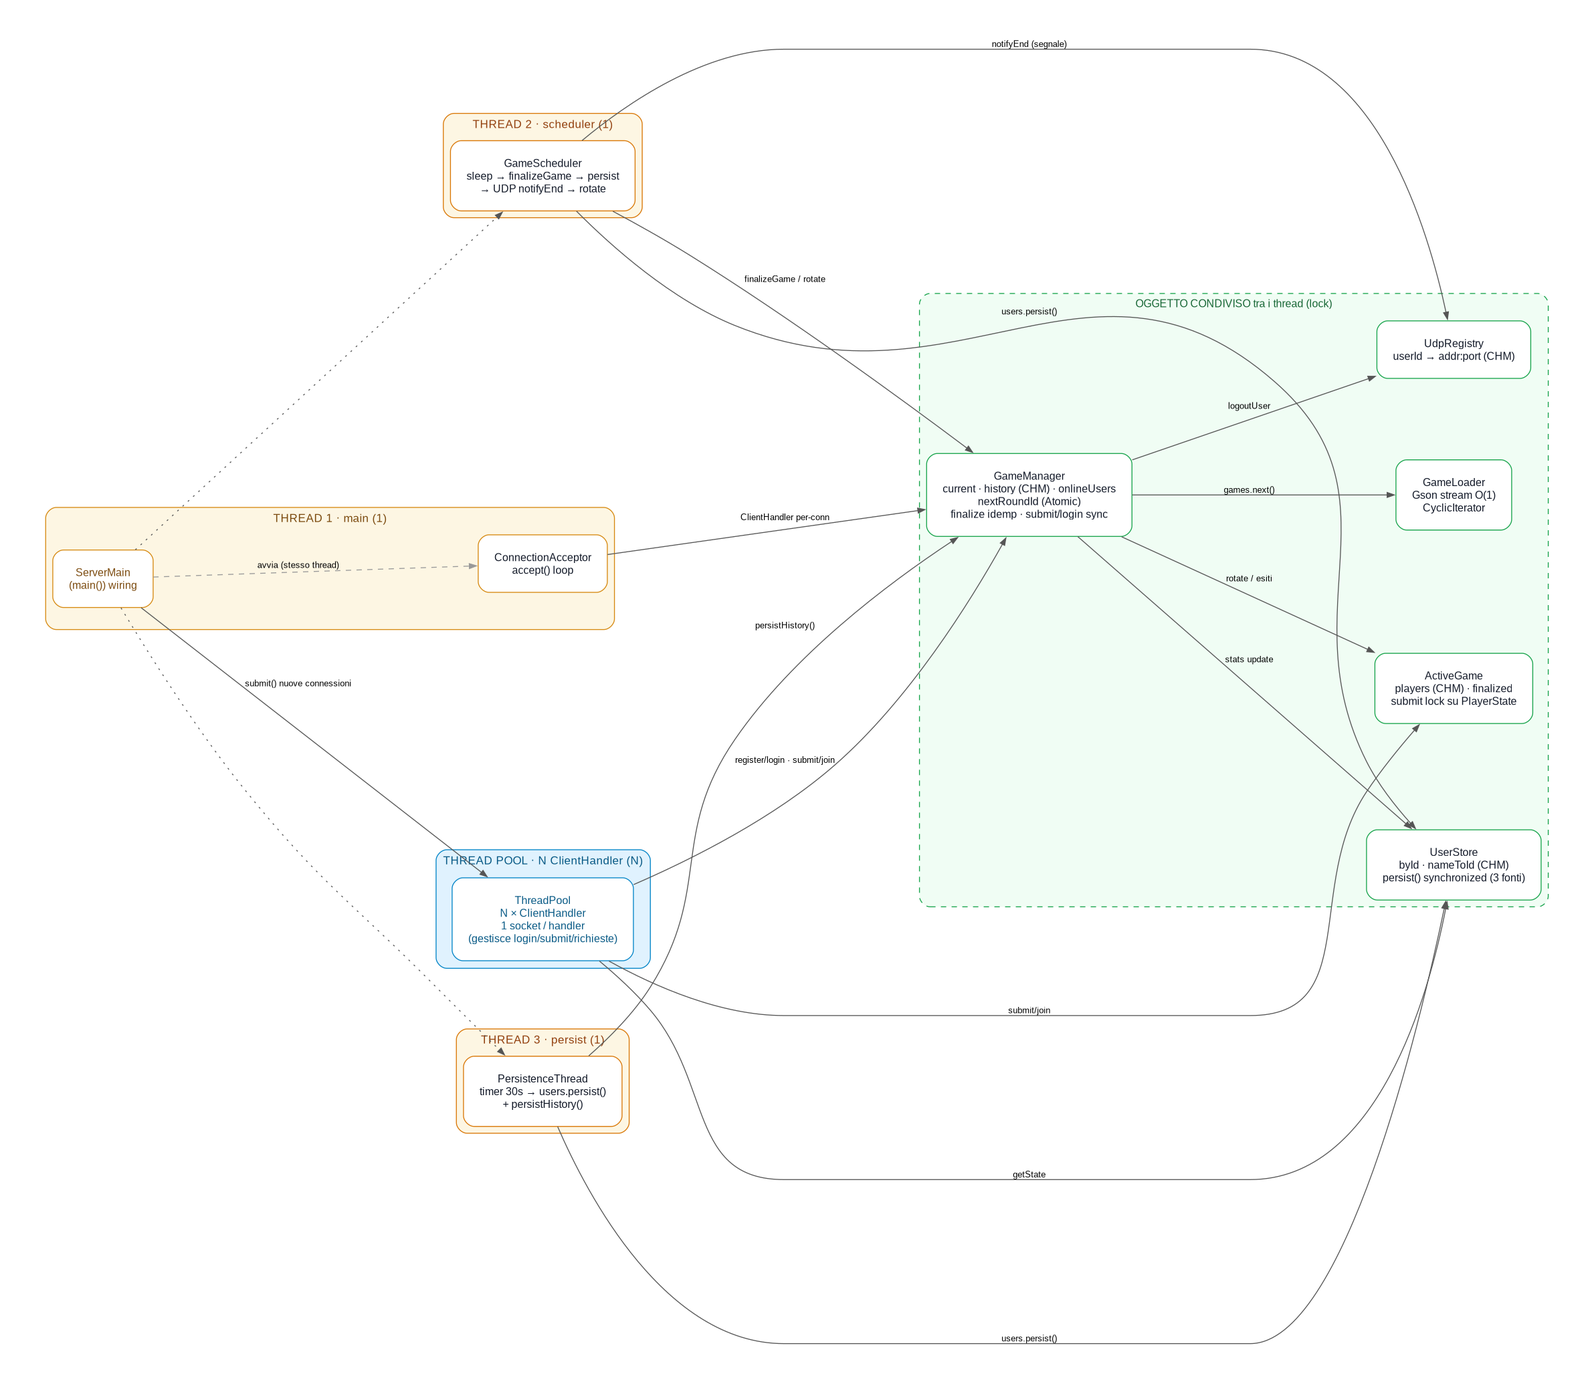
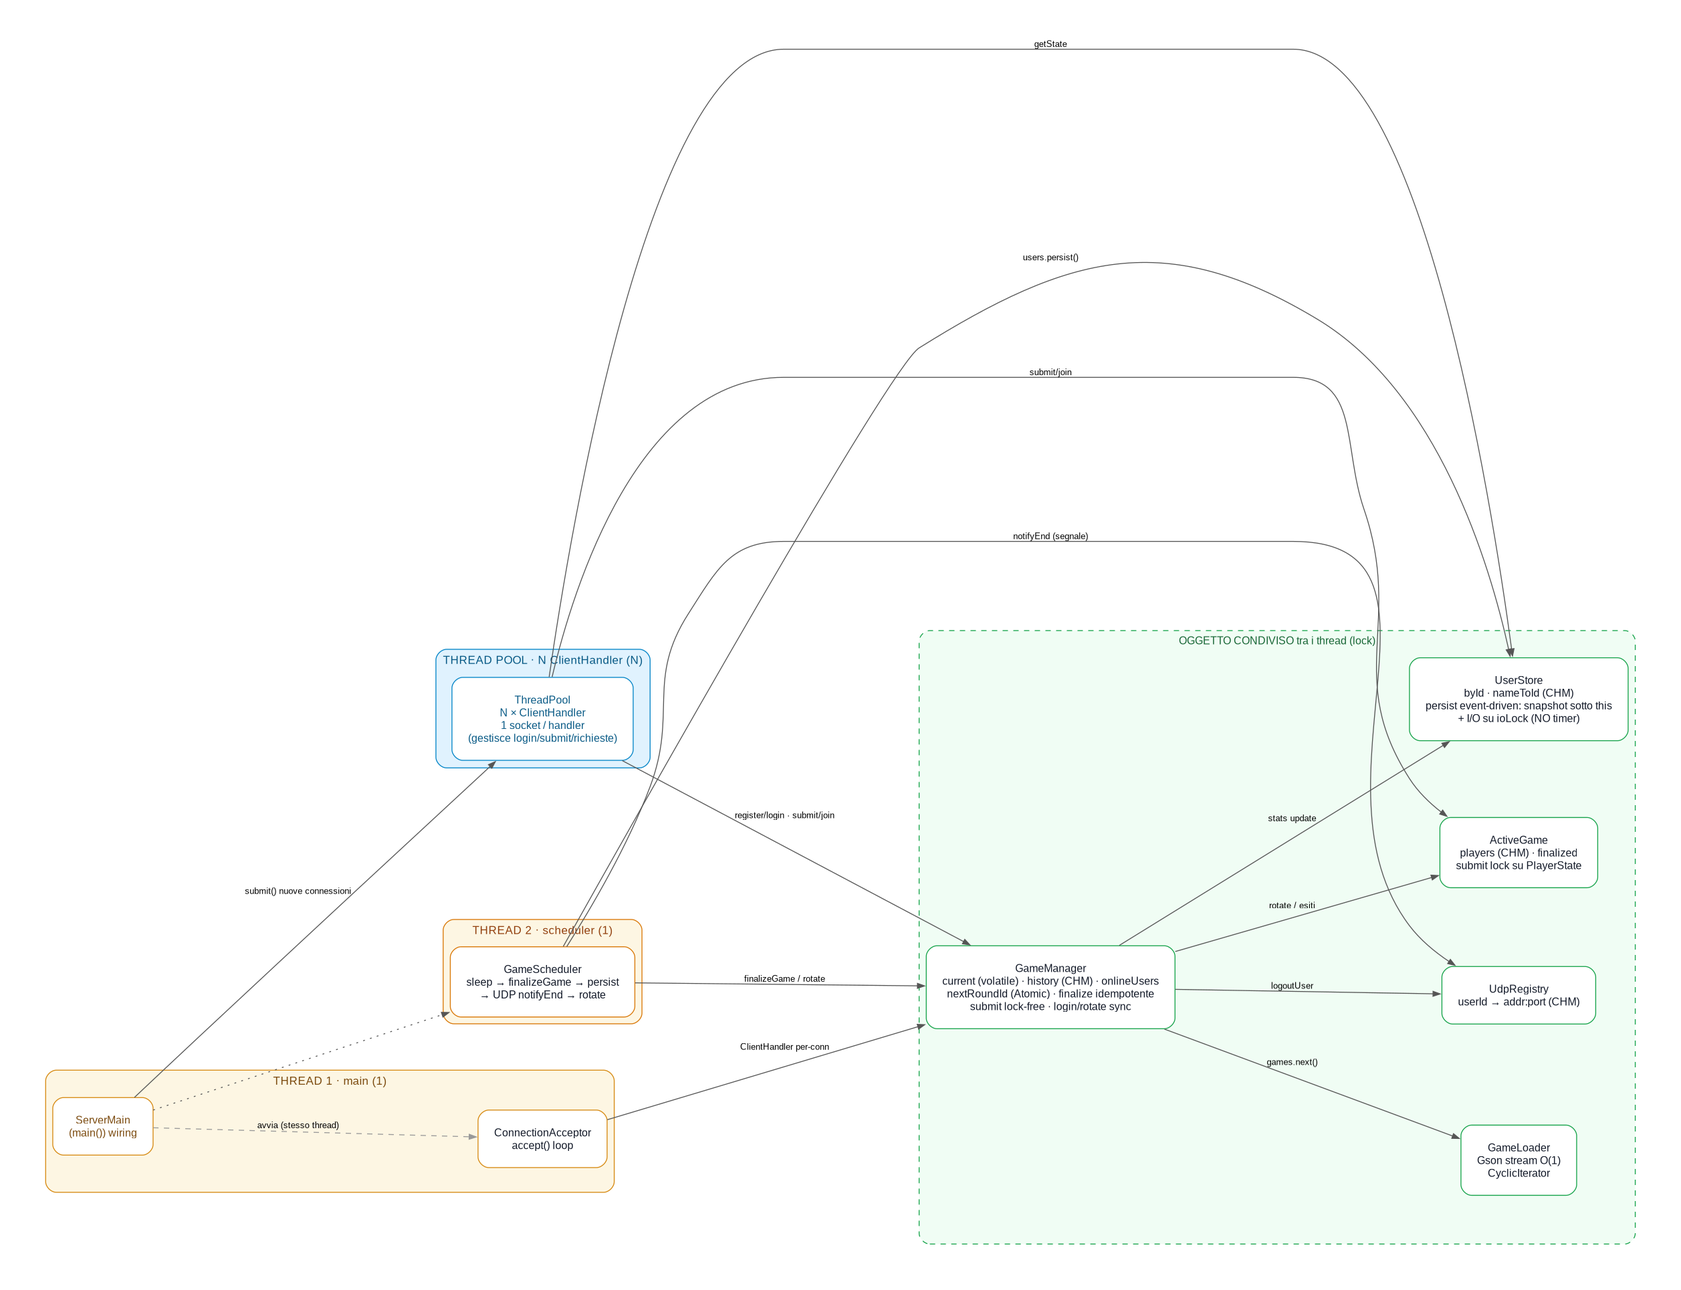
eliminazione persistence-thread
superfluo, overhead inutile

diff --git a/src/server/core/UserStore.java b/src/server/core/UserStore.java
@@ -45,17 +45,17 @@ import protocol.Errors;
  *   - `nextId` è un AtomicInteger (assegnazione id thread-safe);
  *
  * PERSISTENZA
- * Utenti in RAM ("pochi", accessi frequenti); snapshot JSON periodico +
- * atomico (temp + rename).
+ * Utenti in RAM ("pochi", accessi frequenti); snapshot JSON atomico (temp + rename).
  *
- * `persist()` è `synchronized`: viene chiamato da TRE fonti concorrenti e
- * serializza la scrittura su file.tmp + ATOMIC_MOVE, evitando collisioni:
- *   1) PersistenceThread (timer periodico);
- *   2) GameScheduler, subito dopo finalizeGame (persistenza event-driven);
- *   3) shutdown hook in ServerMain (SIGTERM/SIGINT) -> nessuna perdita
- *      dell'ultima partita finalizzata all'uscita.
- * In questo modo si cerca di minimizzare la perdita di informazioni 
- * su chiusure inaspettate o crash.
+ * PERSISTENZA EVENT-DRIVEN (nessun timer): il salvataggio avviene
+ *   1) register / updateCredentials (deltas account, su disco SUBITO dopo il successo);
+ *   2) GameScheduler dopo finalizeGame (stats maturate a fine partita);
+ *   3) shutdown hook in ServerMain (SIGTERM/SIGINT) -> nessuna perdita dell'ultima
+ *      partita finalizzata all'uscita.
+ * Il disk I/O va su `ioLock` dedicato, cosi' register/login non si bloccano sulla
+ * scrittura; le sorgenti concorrenti si serializzano comunque tra loro via `ioLock`.
+ * In questo modo si minimizza la perdita di informazioni su chiusure inaspettate/
+ * crash: i deltas account vengono salvati appena avvengono, non dopo fino a 30s.
  */
 public class UserStore {
 
@@ -107,6 +107,7 @@ public class UserStore {
             nameToId.put(username, u.id);
             byId.put(u.id, u);
         }
+        persistQuiet();
         return null;
     }
 
@@ -151,6 +152,7 @@ public class UserStore {
                 }
             }
         }
+        persistQuiet();
         return null; // OK
     }
 
@@ -224,6 +226,16 @@ public class UserStore {
                 GSON.toJson(arr, w);
             }
             Files.move(tmp, p, StandardCopyOption.REPLACE_EXISTING, StandardCopyOption.ATOMIC_MOVE);
+        }
+    }
+
+    // Persist event-driven SILENZIOSO (chiamato da register/updateCredentials):
+    // l'IOException non deve diventare un codice Errors per il client, quindi la
+    // si logga e si prosegue (il shutdown hook / persist seguente recupererà).
+    private void persistQuiet() {
+        try { persist(); }
+        catch (IOException e) {
+            System.err.println("[UserStore] persist failed: " + e.getMessage());
         }
     }
 

diff --git a/src/server/core/ServerMain.java b/src/server/core/ServerMain.java
@@ -3,7 +3,6 @@ package server.core;
 import server.loader.GameLoader;
 import server.network.ConnectionAcceptor;
 import server.network.GameScheduler;
-import server.persistence.PersistenceThread;
 
 import java.io.IOException;
 import java.util.concurrent.ExecutorService;
@@ -16,7 +15,7 @@ import java.util.concurrent.Executors;
  *   1. legge la config (server.properties o path passato come argomento);
  *   2. crea il GameLoader (streaming Gson, memoria O(1): nessuna partita in RAM);
  *   3. costruisce il Context (risorse condivise);
- *   4. avvia scheduler partita e thread di persistenza;
+ *   4. avvia lo scheduler partita (la persistenza è EVENT-DRIVEN);
  *   5. registra lo shutdown hook (su SIGTERM/SIGINT salva UserStore su disco);
  *   6. apre l'acceptor TCP sul thread principale (bloccante).
  */
@@ -49,9 +48,8 @@ public class ServerMain {
         // 3) risorse condivise
         Context ctx = new Context(cfg, loader);
 
-        // 4) thread di supporto
+        // 4) scheduler partita (persistenza utenti event-driven)
         new Thread(new GameScheduler(ctx.games, ctx.users, ctx.notifier), "scheduler").start();
-        new Thread(new PersistenceThread(ctx.users, cfg.persistIntervalSec), "persist").start();
 
         // 5) shutdown hook: SIGTERM/SIGINT -> persist prima di uscire (no perdita ultima partita)
         Runtime.getRuntime().addShutdownHook(new Thread(() -> {

diff --git a/src/server/core/ServerConfig.java b/src/server/core/ServerConfig.java
@@ -11,7 +11,6 @@ public class ServerConfig {
     public final int udpPort;
     public final int gameDurationSec;
     public final int poolSize;
-    public final int persistIntervalSec;
     public final String gamesFile;
     public final String persistFile;
     public final String historyFile;
@@ -21,7 +20,6 @@ public class ServerConfig {
         udpPort = Integer.parseInt(p.getProperty("udp.port", "12346"));
         gameDurationSec = Integer.parseInt(p.getProperty("game.duration.sec", "600"));
         poolSize = Integer.parseInt(p.getProperty("pool.size", "16"));
-        persistIntervalSec = Integer.parseInt(p.getProperty("persist.interval.sec", "30"));
         gamesFile = p.getProperty("games.file", "data/games.json");
         persistFile = p.getProperty("persist.file", "data/users.json");
         historyFile = p.getProperty("history.file", "data/history.json");

diff --git a/docs/explain/server/core/UserStore.md b/docs/explain/server/core/UserStore.md
@@ -20,21 +20,26 @@ Won/Lost`, `notFinished`, `currentStreak`/`maxStreak`, `perfectPuzzles`,
 
 ## Operazioni
 - `register(username, psw)` — `synchronized(this)`: verifica username, assegna
-  `nextId`, popola `nameToId`+`byId`. `null`=OK, altrimenti `Errors`.
+  `nextId`, popola `nameToId`+`byId`. Poi **`persistQuiet()`** (persist
+  event-driven, fuori dal lock). `null`=OK, altrimenti `Errors`.
 - `login(username, psw)` — lookup sotto `synchronized(this)`, confronto psw sotto
   `synchronized(u)`. `null`=OK.
 - `updateCredentials(oldUser, oldPsw, newUser, newPsw)` — `synchronized(this)` +
   `synchronized(u)`: rinomina solo l'indice secondario (`nameToId`), `byId` e le
-  strutture keyed-by-id restano invariate. `null`=OK.
+  strutture keyed-by-id restano invariate. Poi **`persistQuiet()`** (persist
+  event-driven, fuori dal lock). `null`=OK.
 - `allUsers()` — lista snapshot per classifica.
 - `hasUser(name)`, `getByName(name)` (atomica sotto `this`), `getById(id)`
   (lookup diretto, l'id non cambia MAI).
-- `persist()` — **NON `synchronized`**: build del JSON in-memory sotto `this`
-  (cattura `int`/`mistakeHist` sotto `synchronized(u)`, accoppiata col writer in
-  `finalizeGame`), **disk I/O su `ioLock`** dedicato. Le tre fonti concorrenti
-  (timer/scheduler/shutdown) si serializzano tra loro tramite `ioLock`, ma
-  `register`/`login` (che usano `synchronized(this)`) non si bloccano sulla
-  scrittura su disco. Scrittura atomica (tmp + `ATOMIC_MOVE`).
+- `persist()` — build del JSON in-memory sotto `this` (cattura `int`/`mistakeHist`
+  sotto `synchronized(u)`, accoppiata col writer in `finalizeGame`), **disk I/O
+  su `ioLock`** dedicato. Le fonti concorrenti (register/rename, scheduler
+  post-finalize, shutdown) si serializzano tra loro tramite `ioLock`; il lock
+  `this` resta libero durante la scrittura su disco. Scrittura atomica
+  (tmp + `ATOMIC_MOVE`).
+- `persistQuiet()` — wrapper di `persist()` che logga l'`IOException` (chiamato
+  da `register`/`updateCredentials`): un fallimento di scrittura non diventa un
+  codice `Errors` per il client; lo recupera lo shutdown hook / persist seguente.
 - `load()` — all'avvio (single-threaded): ripristina `byId`/`nameToId`/`nextId`;
   su file corrotto rinomina in `.corrupt` e parte vuoto.
 
@@ -44,15 +49,22 @@ Nessun lock globale per le operazioni business: `byId`/`nameToId` sono
 `synchronized(u)` → utenti diversi non si bloccano. `register`/`login`/
 `updateCredentials`/`getByName` serializzano il SOLO accesso combinato alle due
 mappe con `synchronized(this)` (breve). `persist` separa snapshot in-memory
-(`this`) dall'I/O (`ioLock`). Solo `synchronized`/`Atomic*`/`ConcurrentHashMap`.
+(`this`) dall'I/O (`ioLock`); `persistQuiet` la invoca fuori dal lock `this`
+(register/rename persistono senza tenere bloccato lo store durante la scrittura).
+Solo `synchronized`/`Atomic*`/`ConcurrentHashMap`.
 
 ## Persistenza
-Snapshot JSON periodico (PersistenceThread) + event-driven (GameScheduler
-post-finalize) + shutdown hook (ServerMain). L'I/O è fuori dal monitor `this`.
+**Event-driven, nessun timer** (il vecchio `PersistenceThread` è stato rimosso):
+- `register` / `updateCredentials` → `persistQuiet()` subito dopo il successo
+  (deltas account: perdita a hard-crash = 0, prima era ≤30s);
+- `GameScheduler` post-finalize → stats/storico;
+- shutdown hook (`ServerMain`) → ultima partita finalizzata.
+L'I/O è fuori dal monitor `this` (su `ioLock`).
 
 ## Collegamenti
 - `protocol/Errors`: codici di ritorno (enum centralizzato, `null`=OK).
 - `core/GameManager`: statistiche in `finalizeGame`, storico per userId,
   `leaderboard`/`playerStats`.
 - `network/ClientHandler`: `register`/`login`/`updateCredentials`/`getById`.
-- `persistence/PersistenceThread` + `core/ServerMain`: persistenza periodica/shutdown.
+- `core/ServerMain`: shutdown hook (`persist`) + avvio scheduler.
+- `network/GameScheduler`: `persist` post-finalize (stats).

diff --git a/hermes_brain/gotchas.md b/hermes_brain/gotchas.md
@@ -42,7 +42,7 @@
   - `handleProposal` in `ClientHandler` rimosso il `synchronized(ctx.games)` (era double-lock ridondante).
   - `finalizeGame` rilegge `PlayerState` sotto **`synchronized(ps)`** esplicito — prima era protetto solo dall'implicito monitor grosso; senza, le letture di `correctCount/errors/score` in finalizzazione gappano contro submit concorrenti. No deadlock (finalize prende GM→ps; submit solo ps).
   - `persistHistory` / `UserStore.persist`: **NON più `synchronized` sul monitor business**; build in-memory sotto `this`, **disk I/O su `ioLock`** dedicato (serializza le fonti senza bloccare register/login/submit durante la scrittura). `persistHistory` usa **`Gson.toJson(map, w)` streamed** → niente `String`/`JsonElement` intermedia dell'intero storico (memoria extra O(1)).
-  - `PersistenceThread`: NON salva più lo storico (cambia solo a fine partita; lo salvano scheduler post-finalize + shutdown hook); riceve solo `UserStore`.
+- **RIMOSSO il `PersistenceThread` (persistenza event-driven)**: il timer salvava ogni 30s un intero snapshot, quasi sempre su dati invariati; stats/storico li salvava già comunque lo scheduler post-finalize + shutdown hook. Il suo unico lavoro reale (deltas account) ora è coperto da **`persistQuiet()` chiamato in `UserStore.register`/`updateCredentials` DOPO il `synchronized(this)`** (fuori dal lock): i deltas vanno su disco appena avvengono → perdita a hard-crash = 0 (prima ≤30s). Rimosso anche `ServerConfig.persistIntervalSec` e la riga `persist.interval.sec` da `server.properties`. Scrittore concorrente ridotto a 2 (register/rename, scheduler), serializzati su `ioLock`. Tradeoff: `register`/`updateCredentials` ora fanno disk I/O sul path di richiesta — costo piccolo (scrittura atomica, evento raro) e nascosto da `persistQuiet()` che logga gli `IOException` senza tradurli in `Errors` del client.
 - **Storico per username (B9)**: la rinomina invalidava l'accesso allo storico. Fix: chiave dello storico = **userId immutabile** (`entries` per id in `GameHistory`).
 - **Finalize multiplo**: scheduler + shutdown hook + timer potevano contare 2 volte. Fix: `finalizeGame` **idempotente** via `finalized.compareAndSet(false,true)`.
 - **`sleep()` dello scheduler usciva al primo `InterruptedException`**: interrompendo il thread si saltava la attesa e si procedeva a finalize/rotate anticipati. Fix: `sleep()` ricalcola il deadline e **ritenta** finché non scaduto (`while` + `rem = deadline - now`).

diff --git a/hermes_brain/status.md b/hermes_brain/status.md
@@ -12,7 +12,7 @@
 | S7 | Handler (`network/ClientHandler`) | 🟢 | dispatch 9 op; gate auth; `udpPort` obbligatorio + registro UDP; catch(Exception) non uccide worker; `Errors`/`null`; **`handleProposal` senza lock globale** (era double-lock ridondante) |
 | S8 | UDP registry+notifier (`network/UdpRegistry`/`UdpNotifier`) | 🟢 | registry userId→endpoint; notifier unicast con **un solo DatagramSocket riusato** (+`connect(addr,port)` per destinatario, non bloccante su host irraggiungibili); payload `GAME_ENDED`+roundId (solo segnale) |
 | S9 | Classifica+stats+storico (`core/GameManager`) | 🟢 | leaderboard (cumulative), game/player stats; **storico persistito** (`historyFile`, cap 10_000); `onlineUsers` auto-join; **`current` `volatile` + `current()` lock-free**; **`submitProposal` NON più `synchronized`** (parallelismo via lock per-`PlayerState`; TOCTOU gestita da `finalized` CAS); `finalizeGame` rilegge `ps` sotto `synchronized(ps)`; `logoutUser` atomico; `finalizeGame` **idempotente**; **`persistHistory` streamed su `ioLock`**; verificato |
-| S10 | Persistenza (`persistence/PersistenceThread`) | 🟢 | salva **solo utenti** (lo storico lo salvano scheduler post-finalize + shutdown hook); `ioLock` su `UserStore` |
+| S10 | Persistenza | 🟢 | **event-driven, NO timer**: `PersistenceThread` rimosso; deltas account → `persistQuiet()` in `register`/`updateCredentials` (perdita crash=0); stats/storico → scheduler post-finalize; shutdown hook all'uscita; `ioLock` su `UserStore`/`GameManager` |
 | S11 | Protocollo errori (`protocol/Errors`) | 🟢 | enum centralizzato; `null`=OK; +`BAD_REQUEST`,`ERR_PLAYER_NOT_FOUND`,`ERR_ALREADY_LOGGED_IN` (login duplicato) |
 | S12 | Envelope (`protocol/Request`/`Response`) | 🟢 | `gameId=-1`⇒corrente; `requestGameInfo` storico espone `assignment`+tema; `Response.err(Errors)` con `message`. **Payload ora POJO** in `protocol/payload/` (per-op) |
 

diff --git a/docs/explain/server/network/GameScheduler.md b/docs/explain/server/network/GameScheduler.md
@@ -14,8 +14,9 @@ la scadenza di `current` → finalizza gli esiti → **persist event-driven** (u
 1. `g = gameMan.current()`; se null → `sleep(1000)`, riprova.
 2. `waitMs = g.endTimeMs - now`; se > 0 → `sleep(waitMs)`.
 3. `gameMan.finalizeGame(users)` — registra esiti + statistiche.
-4. `users.persist()` + `gameMan.persistHistory()` — persistenza event-driven (non
-   attende il timer del `PersistenceThread`); gestisce `IOException` con log.
+4. `users.persist()` — persistenza utenti (stats) event-driven post-finalize;
+   gestisce `IOException` con log. (Lo storico `gameMan.persistHistory()` è
+   salvato qui insieme.)
 5. `notifier.notifyEnd(g.participants(), {type:"GAME_ENDED", gameId, roundId})`.
 6. `gameMan.rotate(now)` — nuova partita (auto-join degli `onlineUsers`).
 
@@ -30,11 +31,12 @@ la scadenza di `current` → finalizza gli esiti → **persist event-driven** (u
 Coordinazione via `Thread.sleep` fino a `endTimeMs`; `sleep()` ricalcola il
 deadline ed effettua **retry** su `InterruptedException` (non esce dal ciclo).
 Lo swap di `ActiveGame` in `GameManager.rotate` è `synchronized`.
-`persist()`/`persistHistory()` sono `synchronized` lato store/manager ⇒
-serializzati con timer e shutdown hook.
+`persist()`/`persistHistory()` usano l'`ioLock` dedicato (rispettivamente in
+`UserStore`/`GameManager`) ⇒ serializzati tra loro e con l'event-driven di
+`register`/`updateCredentials` (nessun timer).
 
 ## Collegamenti
 - `core/GameManager`: `current`/`finalizeGame`/`rotate`/`persistHistory`.
 - `core/ActiveGame`: legge `endTimeMs`, `finalized`, `roundId`, `participants()`.
 - `network/UdpNotifier`: invio notifica async (payload con `roundId`).
-- `core/UserStore` + `persistence/PersistenceThread`: `persist()`.
+- `core/UserStore`: `persist()` (stats post-finalize).

diff --git a/docs/explain/server/core/ServerMain.md b/docs/explain/server/core/ServerMain.md
@@ -11,17 +11,18 @@ Avvia il server: config → loader → Context → thread di supporto → shutdo
    partite non stanno mai tutte in RAM); su errore → `System.exit(3)`.
 3. **Context**: `new Context(cfg, loader)` (risorse condivise: `users`, `games`,
    `udpRegistry`, `notifier`).
-4. **Thread di supporto**: `GameScheduler` (thread "scheduler") e
-   `PersistenceThread(ctx.users, cfg.persistIntervalSec)` (thread "persist").
+4. **Scheduler**: avvia SOLO `GameScheduler` (thread "scheduler"). **Nessun
+   `PersistenceThread`**: la persistenza è event-driven (vedi sotto).
 5. **Shutdown hook**: su SIGTERM/SIGINT salva `users.persist()` +
    `games.persistHistory()` → nessuna perdita dell'ultima partita finalizzata.
 6. **Acceptor TCP**: `ExecutorService` fixed pool (`cfg.poolSize`) +
    `ConnectionAcceptor` sul thread principale (bloccante).
 
 ## Note
-- `PersistenceThread` riceve **solo `UserStore`** (non più `GameManager`): il
-  timer salva solo gli utenti; lo storico partite lo salvano scheduler
-  (post-finalize) e shutdown hook.
+- **Persistenza event-driven (niente timer)**: i deltas account (register/rename)
+  si salvano in `UserStore.register`/`updateCredentials` via `persistQuiet()`; le
+  stats/storico li salva lo scheduler post-`finalizeGame`. Il solo shutdown hook
+  copre l'ultima partita finalizzata all'uscita.
 - Pool size = numero massimo di connessioni/concorrenti servite
   contemporaneamente (una connessione persistente occupa un thread).
 
@@ -29,4 +30,3 @@ Avvia il server: config → loader → Context → thread di supporto → shutdo
 - `core/ServerConfig`, `core/Context`, `core/GameManager`, `core/UserStore`.
 - `loader/GameLoader`.
 - `network/GameScheduler`, `network/ConnectionAcceptor`.
-- `persistence/PersistenceThread`.

diff --git a/hermes_brain/README.md b/hermes_brain/README.md
@@ -33,7 +33,7 @@ Gioco "Connections" (NYT) implementato in **Java** con architettura **client-ser
 - `loader/`: `GameLoader` (streaming pigro, `CyclicGameIterator`).
 - `model/`: `GameData` (POJO partite).
 - `network/`: `ConnectionAcceptor`, `ClientHandler`, `GameScheduler`, `UdpNotifier`, `UdpRegistry`.
-- `persistence/`: `PersistenceThread` (utenti+storico).
+- persistenza utenti/storico: **event-driven** (in `UserStore` e `GameManager`), NESSUNA classe `persistence/` — il vecchio `PersistenceThread` è stato rimosso.
 
 ## Package condiviso (server + client)
 - `protocol/` (top-level in `src/`, non sotto `server/`): `Request`, `Response`,
@@ -58,7 +58,7 @@ Gioco "Connections" (NYT) implementato in **Java** con architettura **client-ser
 5. Libreria JSON → **Gson** (jar allegato).
 6. Codici errore → **testuali** centralizzati in `protocol/Errors` (enum).
 7. Sentinel "partita corrente" → `roundId = -1` (INT). `gameId` sorgente si ripete; `roundId` monotono.
-8. Persistenza → **utenti + storico partite** (JSON separati).
+8. Persistenza → **utenti + storico partite** (JSON separati), **event-driven senza timer** (deltas account in `register`/`updateCredentials`; stats/storico nel scheduler post-finalize; shutdown hook all'uscita).
 9. Outcome per giocatore ∈ {WON, LOST(4 errori), NOT_FINISHED(timeout)}.
 10. Mistake Histogram: bin vittorie 0-3 errori + fallite(4) + not_finished.
 11. Notifiche UDP → **unicast** a endpoint registrati (`UdpRegistry`: IP TCP + port dal login).

diff --git a/docs/explain/server/core/GameManager.md b/docs/explain/server/core/GameManager.md
@@ -82,6 +82,7 @@ streamed verso il writer: O(1) di memoria extra.
 - `loader/GameLoader` + `CyclicGameIterator`: sorgente.
 - `core/UserStore`: storico per userId, statistiche.
 - `network/GameScheduler`: `rotate`/`finalizeGame`/`persistHistory`/`persist` utenti.
-- `core/ServerMain` + `persistence/PersistenceThread`: persistenza/shutdown
-  (il timer salva solo utenti; lo storico lo salva scheduler + shutdown hook).
+- `core/ServerMain`: persistenza/shutdown (shutdown hook: `persist` + `persistHistory`;
+  avvio scheduler). L'event-driven dei deltas account sta in
+  `UserStore.register`/`updateCredentials` (`persistQuiet()`).
 - `network/UdpRegistry`: `logoutUser` lo pulisce.

diff --git a/docs/explain/server/core/ServerConfig.md b/docs/explain/server/core/ServerConfig.md
@@ -11,7 +11,6 @@ NO interattivo). I campi sono `public final` e immutabili dopo la lettura.
 | `udpPort` | int | `12346` | porta notifiche UDP |
 | `gameDurationSec` | int | `600` | durata partita (10 min) |
 | `poolSize` | int | `16` | thread pool acceptor |
-| `persistIntervalSec` | int | `30` | intervallo snapshot utenti+storico |
 | `gamesFile` | String | `data/games.json` | file partite (array JSON) |
 | `persistFile` | String | `data/users.json` | file utenti |
 | `historyFile` | String | `data/history.json` | file **storico partite** (nuovo) |

diff --git a/docs/explain/server/core/Context.md b/docs/explain/server/core/Context.md
@@ -26,6 +26,7 @@ sincronizzazione.
 
 ## Collegamenti
 - `core/ServerMain`: l'unico che lo costruisce.
-- `network/ClientHandler`, `network/GameScheduler`, `persistence/PersistenceThread`:
-  lo ricevono per accedere a store/manager/notifier/udpRegistry.
+- `network/ClientHandler`, `network/GameScheduler`: lo ricevono per accedere a
+  store/manager/notifier/udpRegistry. (Nessun `PersistenceThread`: persistenza
+  event-driven.)
 - `network/UdpRegistry`, `network/UdpNotifier`: creati qui.
